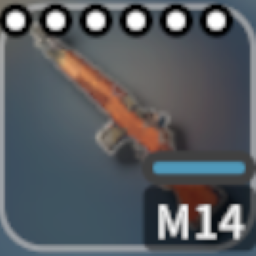
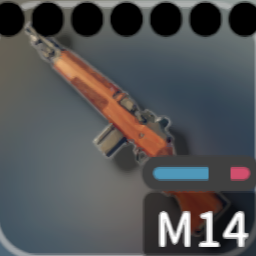
修复游戏1.3版本更新后，插槽数量没有正确增加的问题
不再修改开火模式

diff --git a/M14BigMan/M14Config.cs b/M14BigMan/M14Config.cs
@@ -6,6 +6,16 @@ namespace M14BigMan
 {
     public static class M14Config
     {
+        /// <summary>
+        /// M14原始插槽数量（游戏更新后的默认值）
+        /// </summary>
+        public const int M14_ORIGINAL_SLOT_COUNT = 5;
+        
+        /// <summary>
+        /// M14目标插槽数量（添加Stock和Tec后）
+        /// </summary>
+        public const int M14_TARGET_SLOT_COUNT = 7;
+        
         public static int CustomValue = 17781;
         
         // 硬编码插槽Tag配置
@@ -23,17 +33,16 @@ namespace M14BigMan
         // 多语言描述配置
         private static readonly Dictionary<SystemLanguage, string> Descriptions = new Dictionary<SystemLanguage, string>
         {
-            [SystemLanguage.Chinese] = "制式精准战斗步枪，虽然是全自动，但还有很强的威力。",
-            [SystemLanguage.ChineseSimplified] = "制式精准战斗步枪，虽然是全自动，但还有很强的威力。",
-            [SystemLanguage.ChineseTraditional] = "制式精準戰鬥步槍，雖然是全自動，但還有很強的威力。",
-            [SystemLanguage.English] = "Standard precision combat rifle, although fully automatic, still has strong power.",
-            [SystemLanguage.Japanese] = "制式精密戦闘ライフル、フルオートですが、依然として強力な威力があります。",
-            [SystemLanguage.Korean] = "제식 정밀 전투 소총, 완전 자동이지만 여전히 강력한 위력을 가지고 있습니다.",
-            [SystemLanguage.Russian] = "Стандартная точная боевая винтовка, хотя полностью автоматическая, все еще обладает сильной мощностью.",
+            [SystemLanguage.Chinese] = "虽然伤害高，但是射速也很快鸭~",
+            [SystemLanguage.ChineseSimplified] = "虽然伤害高，但是射速也很快鸭~",
+            [SystemLanguage.ChineseTraditional] = "雖然傷害高，但射速也很快鴨~",
+            [SystemLanguage.English] = "High damage, but fires quacking fast!",
+            [SystemLanguage.Japanese] = "高ダメージだけど、発射速度もカモン早いよ！",
+            [SystemLanguage.Korean] = "데미지는 높지만, 연사력이 덜덜 빠르덕!",
+            [SystemLanguage.Russian] = "Урон высокий, но и скорострельность утиная быстрая!",
         };
-        
         // 默认描述
-        private const string DefaultDescription = "Standard precision combat rifle, although fully automatic, still has strong power.";
+        private const string DefaultDescription = "虽然伤害高，但是射速也很快鸭~";
         
         // 根据当前游戏语言获取描述
         public static string GetDescription()

diff --git a/M14BigMan/M14GunSettingPatch.cs b/M14BigMan/M14GunSettingPatch.cs
@@ -30,9 +30,9 @@ namespace M14BigMan
             UnityEngine.Debug.Log($"[M14 Debug] 找到M14! TypeID={item.TypeID}, 当前开火模式={gunSetting.triggerMode}");
             
             // 1. 修改开火模式
-            var oldMode = gunSetting.triggerMode;
-            gunSetting.triggerMode = ItemSetting_Gun.TriggerModes.auto;
-            UnityEngine.Debug.Log($"[M14 Mod] 已修改M14开火模式: {oldMode} → {gunSetting.triggerMode}");
+            // var oldMode = gunSetting.triggerMode;
+            // gunSetting.triggerMode = ItemSetting_Gun.TriggerModes.auto;
+            // UnityEngine.Debug.Log($"[M14 Mod] 已修改M14开火模式: {oldMode} → {gunSetting.triggerMode}");
             
             // 2. 修改插槽配置
             ModifyM14Slots(item);
@@ -55,15 +55,15 @@ namespace M14BigMan
         
         // ==================== 插槽修改核心逻辑 ====================
         /// <summary>
-        /// 修改M14的插槽配置：从4个扩展到6个
-        /// 原始插槽：Scope、Muzzle、Grip、Mag
-        /// 修改后：Scope、Muzzle、Grip、Stock、Tec、Mag
+        /// 修改M14的插槽配置：从5个扩展到7个
+        /// 原始插槽：Scope、Muzzle、Grip、Mag、Special
+        /// 修改后：Scope、Muzzle、Grip、Stock、Tec、Mag、Special
         /// </summary>
         internal static void ModifyM14Slots(ItemStatsSystem.Item item)
         {
-            if (item.Slots == null || item.Slots.Count != 4)
+            if (item.Slots == null || item.Slots.Count != M14Config.M14_ORIGINAL_SLOT_COUNT)
             {
-                UnityEngine.Debug.LogWarning($"[M14 Mod] M14插槽配置异常（期望4个，实际{item.Slots?.Count ?? 0}个），无法修改");
+                UnityEngine.Debug.LogWarning($"[M14 Mod] M14插槽配置异常（期望{M14Config.M14_ORIGINAL_SLOT_COUNT}个，实际{item.Slots?.Count ?? 0}个），无法修改");
                 return;
             }
             
@@ -87,7 +87,7 @@ namespace M14BigMan
             stockSlot.Initialize(item.Slots);
             tecSlot.Initialize(item.Slots);
             
-            UnityEngine.Debug.Log($"[M14 Mod] 已为M14添加插槽: Stock和Tec，总插槽数: {item.Slots.Count}");
+            UnityEngine.Debug.Log($"[M14 Mod] 已为M14添加插槽: Stock和Tec，总插槽数: {item.Slots.Count}/{M14Config.M14_TARGET_SLOT_COUNT}");
         }
         
         /// <summary>

diff --git a/M14BigMan/M14ItemInitializePatch.cs b/M14BigMan/M14ItemInitializePatch.cs
@@ -24,15 +24,15 @@ namespace M14BigMan
                     return;
                 }
 
-                // 如果已经是6个插槽，说明已经修复过了，跳过
-                if (__instance.Slots.Count == 6)
+                // 如果已经是7个插槽，说明已经修复过了，跳过
+                if (__instance.Slots.Count == M14Config.M14_TARGET_SLOT_COUNT)
                 {
-                    UnityEngine.Debug.Log("[M14BigMan Mod] M14已有6个插槽，跳过修复");
+                    UnityEngine.Debug.Log($"[M14BigMan Mod] M14已有{M14Config.M14_TARGET_SLOT_COUNT}个插槽，跳过修复");
                     return;
                 }
 
-                // 如果不是4个插槽，说明配置异常
-                if (__instance.Slots.Count != 4)
+                // 如果不是5个插槽，说明配置异常
+                if (__instance.Slots.Count != M14Config.M14_ORIGINAL_SLOT_COUNT)
                 {
                     UnityEngine.Debug.LogWarning($"[M14BigMan Mod] M14插槽数量异常: {__instance.Slots.Count}");
                     return;
